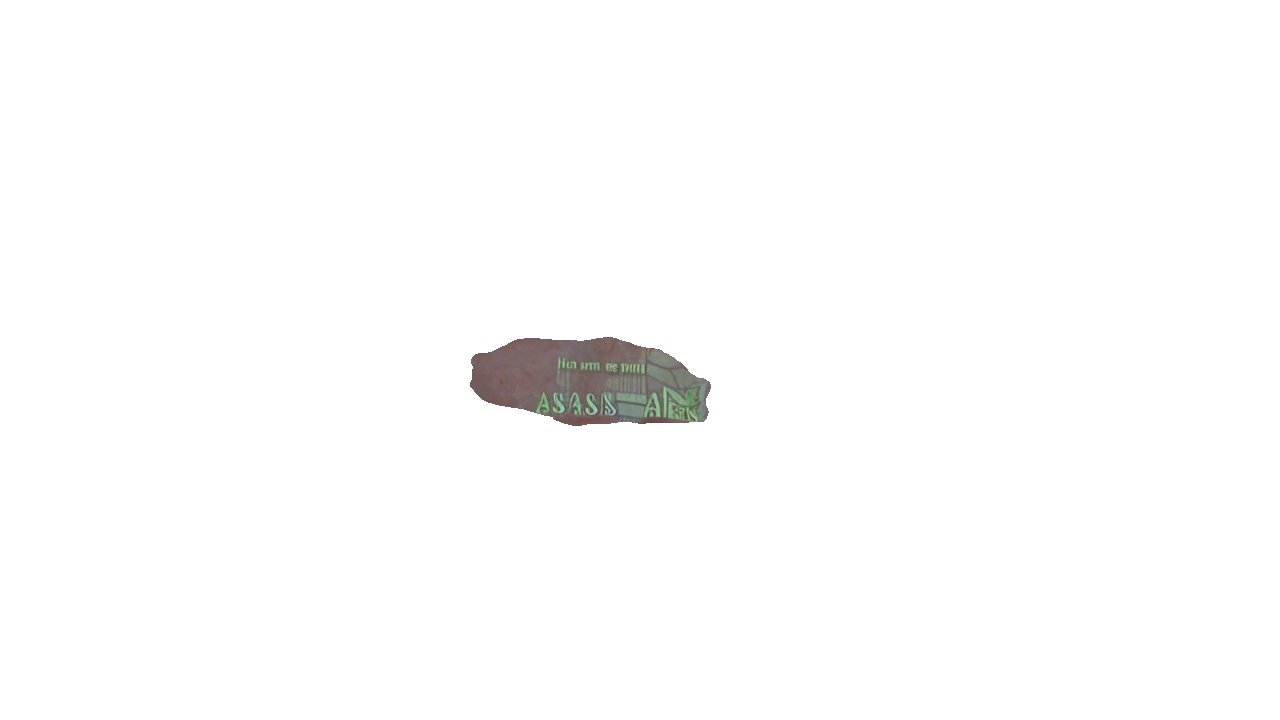
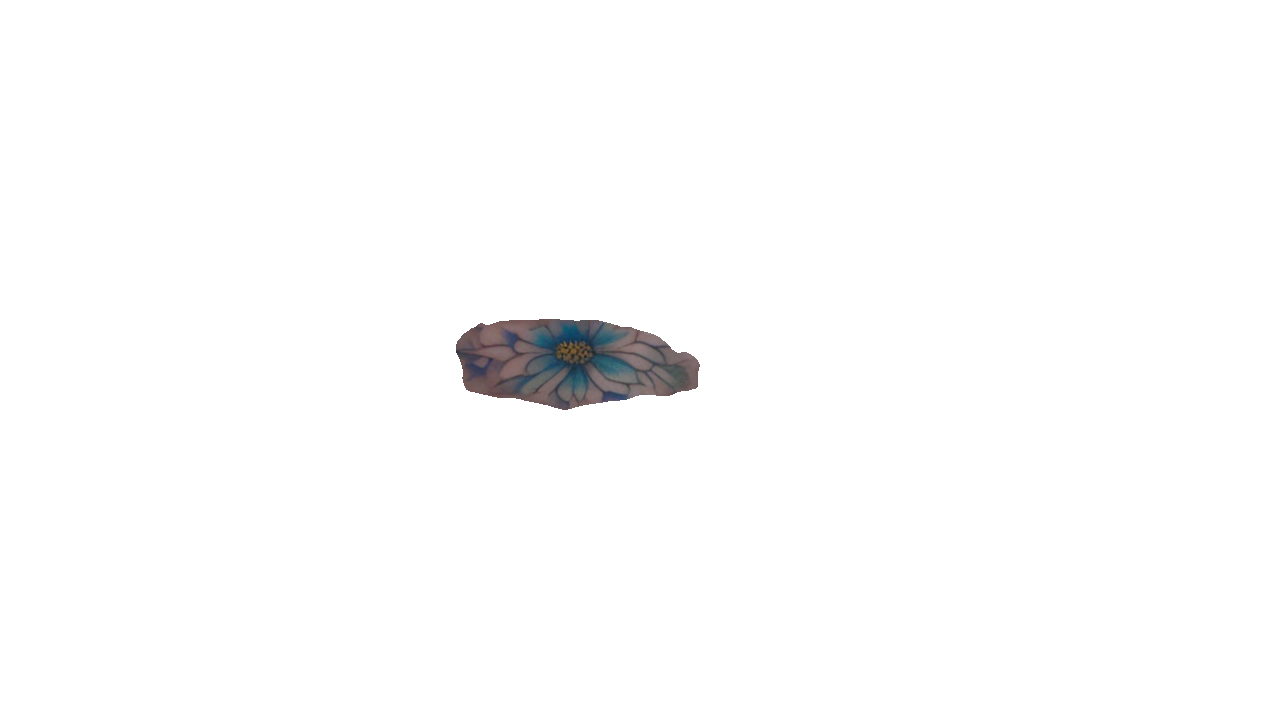
assign

Changed region(s): [[0.3438, 0.4278, 0.5625, 0.6111]]

diff --git a/pipeline_copy.py b/pipeline_copy.py
@@ -82,7 +82,7 @@ if __name__ == "__main__":
 
     selected = False
     set_image = None
-    ref_xy = [None,None]
+    to_paste = None
     ref_crop = None
     ref_frame = None
     kp, des = None, None
@@ -153,6 +153,8 @@ if __name__ == "__main__":
                     centy = int(lpfy.filter(center[1]))
                     print(val1, val2)
                     cv2.circle(frame,[centx,centy],3,(0,255,0),3)
+                    hh,ww,_ = to_paste.shape
+                    np.copyto(frame[centy-hh//2: centy-hh//2+hh, centx-ww//2:centx-ww//2+ww], to_paste[:,:,:3], where=(np.stack([to_paste[:,:,3]]*3,-1)!=0) )
 
             # information
             frame = cv2.putText(frame,f'{int(recorded_fps)} FPS',(0,14),cv2.FONT_HERSHEY_SIMPLEX,0.5,(255,255,255),1,cv2.LINE_AA)
@@ -225,6 +227,8 @@ if __name__ == "__main__":
                 set_image[:,:, 3] = init_mask
                 cv2.imwrite('outputs/output_mask.png', set_image)
                 cv2.imwrite('outputs/output_roi.png', set_image[y:y+h, x:x+w, :])
+                to_paste = set_image[y:y+h, x:x+w, :]
+                
             # focus control
             elif a == ord('s'):
                 FOCUS+=15
